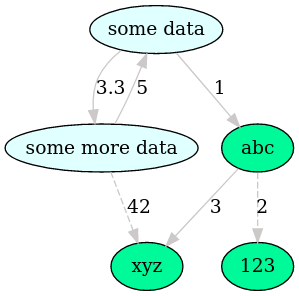
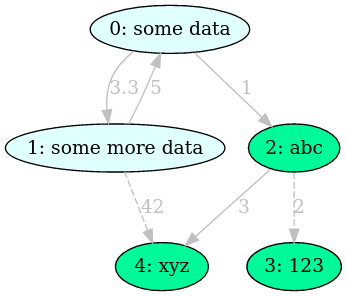
pass vertex and edge id to writers

diff --git a/src/graaflib/io/dot.h b/src/graaflib/io/dot.h
@@ -16,15 +16,17 @@ concept string_convertible = requires(T element) { std::to_string(element); };
 
 template <typename T>
   requires string_convertible<T>
-const auto default_vertex_writer{[](const T& vertex) -> std::string {
-  return fmt::format("label=\"{}\"", std::to_string(vertex));
-}};
+const auto default_vertex_writer{
+    [](vertex_id_t vertex_id, const T& vertex) -> std::string {
+      return fmt::format("label=\"{}: {}\"", vertex_id, std::to_string(vertex));
+    }};
 
 template <typename T>
   requires string_convertible<T>
-const auto default_edge_writer{[](const T& edge) -> std::string {
-  return fmt::format("label=\"{}\"", std::to_string(edge));
-}};
+const auto default_edge_writer{
+    [](const vertex_ids_t& /*edge_id*/, const T& edge) -> std::string {
+      return fmt::format("label=\"{}\"", std::to_string(edge));
+    }};
 }  // namespace detail
 
 /**
@@ -34,19 +36,20 @@ const auto default_edge_writer{[](const T& edge) -> std::string {
  * @tparam E The edge type of the graph.
  * @param graph The graph we want to serialize.
  * @param vertex_writer Function used for serializing the vertices. Should
- * accept a type V and serialize it to a string. Default implementations are
- * provided for primitive numeric types.
- * @param edge_writer Function used for serializing the edges. Should accept a
- * type E and serialize it to a string. Default implementations are provided
- * for primitive numeric types.
+ * accept a vertex_id_t and a type V and serialize it to a string. Default
+ * implementations are provided for primitive numeric types.
+ * @param edge_writer Function used for serializing the edges. Should accept an
+ * edge_id_t and a type E and serialize it to a string. Default implementations
+ * are provided for primitive numeric types.
  * @param path Path to the output dot file.
  */
 template <typename V, typename E, graph_spec S,
           typename VERTEX_WRITER_T = decltype(detail::default_vertex_writer<V>),
           typename EDGE_WRITER_T = decltype(detail::default_edge_writer<E>)>
   requires std::is_invocable_r_v<std::string, const VERTEX_WRITER_T&,
-                                 const V&> &&
-           std::is_invocable_r_v<std::string, const EDGE_WRITER_T&, const E&>
+                                 vertex_id_t, const V&> &&
+           std::is_invocable_r_v<std::string, const EDGE_WRITER_T&,
+                                 const graaf::vertex_ids_t&, const E&>
 void to_dot(
     const graph<V, E, S>& graph, const std::filesystem::path& path,
     const VERTEX_WRITER_T& vertex_writer = detail::default_vertex_writer<V>,

diff --git a/test/graaflib/io/dot_test.cpp b/test/graaflib/io/dot_test.cpp
@@ -14,13 +14,15 @@
 namespace graaf::io {
 
 namespace {
-const auto int_vertex_writer{[](int vertex) -> std::string {
-  return fmt::format("label=\"{}\"", std::to_string(vertex));
-}};
+const auto int_vertex_writer{
+    [](vertex_id_t /*vertex_id*/, int vertex) -> std::string {
+      return fmt::format("label=\"{}\"", std::to_string(vertex));
+    }};
 
-const auto int_edge_writer{[](int edge) -> std::string {
-  return fmt::format("label=\"{}\"", std::to_string(edge));
-}};
+const auto int_edge_writer{
+    [](const vertex_ids_t& /*edge_id*/, int edge) -> std::string {
+      return fmt::format("label=\"{}\"", std::to_string(edge));
+    }};
 
 template <typename T>
 const auto make_vertex_string{
@@ -204,12 +206,14 @@ TEST(DotTest, UserProvidedVertexAndEdgeClass) {
   const auto vertex_2{graph.add_vertex({20, "vertex 2"})};
   graph.add_edge(vertex_1, vertex_2, {100, "edge 1"});
 
-  const auto vertex_writer{[](const vertex_t& vertex) {
-    return fmt::format("{}, {}", vertex.numeric_data, vertex.string_data);
-  }};
-  const auto edge_writer{[](const edge_t& edge) {
-    return fmt::format("{}, {}", edge.numeric_data, edge.string_data);
-  }};
+  const auto vertex_writer{
+      [](vertex_id_t /*vertex_id*/, const vertex_t& vertex) {
+        return fmt::format("{}, {}", vertex.numeric_data, vertex.string_data);
+      }};
+  const auto edge_writer{
+      [](const vertex_ids_t& /*edge_id*/, const edge_t& edge) {
+        return fmt::format("{}, {}", edge.numeric_data, edge.string_data);
+      }};
 
   // WHEN
   to_dot(graph, path, vertex_writer, edge_writer);
@@ -238,10 +242,10 @@ TEST(DotTest, DefaultWriters) {
 
   // THEN
   const auto dot_content{read_to_string(path)};
-  ASSERT_TRUE(dot_content.find(fmt::format("{} [label=\"10\"];", vertex_1)) !=
-              std::string::npos);
-  ASSERT_TRUE(dot_content.find(fmt::format("{} [label=\"20\"];", vertex_2)) !=
-              std::string::npos);
+  ASSERT_TRUE(dot_content.find(fmt::format("{} [label=\"{}: 10\"];", vertex_1,
+                                           vertex_1)) != std::string::npos);
+  ASSERT_TRUE(dot_content.find(fmt::format("{} [label=\"{}: 20\"];", vertex_2,
+                                           vertex_2)) != std::string::npos);
   // For the float value we only check up until the first decimal place
   ASSERT_TRUE(dot_content.find(fmt::format("{} -> {} [label=\"3.3", vertex_1,
                                            vertex_2)) != std::string::npos);

diff --git a/examples/dot_serialization/main.cpp b/examples/dot_serialization/main.cpp
@@ -1,6 +1,7 @@
 #include <fmt/core.h>
 #include <graaflib/directed_graph.h>
 #include <graaflib/io/dot.h>
+#include <graaflib/types.h>
 
 #include <filesystem>
 #include <string>
@@ -49,17 +50,20 @@ auto create_graph() {
 int main() {
   const auto my_graph{create_graph()};
 
-  const auto vertex_writer{[](const my_vertex& vertex) -> std::string {
+  const auto vertex_writer{[](graaf::vertex_id_t vertex_id,
+                              const my_vertex& vertex) -> std::string {
     const auto color{vertex.number <= 25 ? "lightcyan" : "mediumspringgreen"};
-    return fmt::format("label=\"{}\", fillcolor={}, style=filled", vertex.name,
-                       color);
+    return fmt::format("label=\"{}: {}\", fillcolor={}, style=filled",
+                       vertex_id, vertex.name, color);
   }};
 
-  const auto edge_writer{[](const my_edge& edge) -> std::string {
+  const auto edge_writer{[](const graaf::vertex_ids_t& /*edge_id*/,
+                            const my_edge& edge) -> std::string {
     const auto style{edge.priority == edge_priority::HIGH ? "solid" : "dashed"};
-    return fmt::format("label=\"{}\", style={}", edge.weight, style);
+    return fmt::format("label=\"{}\", style={}, color=gray, fontcolor=gray",
+                       edge.weight, style);
   }};
 
-  const std::filesystem::path dof_file_path{"./my_graph.dot"};
+  const std::filesystem::path dof_file_path{"./dot_example.dot"};
   graaf::io::to_dot(my_graph, dof_file_path, vertex_writer, edge_writer);
 }

diff --git a/examples/dot_serialization/README.md b/examples/dot_serialization/README.md
@@ -1,4 +1,4 @@
-# Dot Serialization
+# Dot Serialization Example
 
 The `to_dot` function as defined under `graaf::io` can be used to searialize graphs to the [dot format](https://graphviz.org/doc/info/lang.html). This can be handy for debugging purposes, as well as for post-processing of your graphs in another tool which supports the format.
 
@@ -38,18 +38,20 @@ We define two lambdas to serialize these vertices and edges. Here we can use any
 **Vertex writer**
 
 ```c++
-const auto vertex_writer{[](const my_vertex& vertex) -> std::string {
-    const auto color{vertex.number <= 25 ? "lightcyan" : "mediumspringgreen"};
-    return fmt::format("label=\"{}\", fillcolor={}, style=filled", vertex.name, color);
+const auto vertex_writer{[](graaf::vertex_id_t vertex_id,
+                              const my_vertex& vertex) -> std::string {
+  const auto color{vertex.number <= 25 ? "lightcyan" : "mediumspringgreen"};
+  return fmt::format("label=\"{}: {}\", fillcolor={}, style=filled", vertex_id, vertex.name, color);
 }};
 ```
 
 **Edge writer**
 
 ```c++
-const auto edge_writer{[](const my_edge& edge) -> std::string {
-    const auto style{edge.priority == edge_priority::HIGH ? "solid" : "dashed"};
-    return fmt::format("label=\"{}\", style={}", edge.weight, style);
+const auto edge_writer{[](const graaf::vertex_ids_t& /*edge_id*/,
+                            const my_edge& edge) -> std::string {
+  const auto style{edge.priority == edge_priority::HIGH ? "solid" : "dashed"};
+  return fmt::format("label=\"{}\", style={}, color=gray, fontcolor=gray", edge.weight, style);
 }};
 ```
 
@@ -77,4 +79,6 @@ dot -Tpng ./my_graph.dot -o my_graph.png
 
  Alternatively, you can use [graphviz online](https://dreampuf.github.io/GraphvizOnline/#digraph%20G%20%7B%0A%0A%20%20subgraph%20cluster_0%20%7B%0A%20%20%20%20style%3Dfilled%3B%0A%20%20%20%20color%3Dlightgrey%3B%0A%20%20%20%20node%20%5Bstyle%3Dfilled%2Ccolor%3Dwhite%5D%3B%0A%20%20%20%20a0%20-%3E%20a1%20-%3E%20a2%20-%3E%20a3%3B%0A%20%20%20%20label%20%3D%20%22process%20%231%22%3B%0A%20%20%7D%0A%0A%20%20subgraph%20cluster_1%20%7B%0A%20%20%20%20node%20%5Bstyle%3Dfilled%5D%3B%0A%20%20%20%20b0%20-%3E%20b1%20-%3E%20b2%20-%3E%20b3%3B%0A%20%20%20%20label%20%3D%20%22process%20%232%22%3B%0A%20%20%20%20color%3Dblue%0A%20%20%7D%0A%20%20start%20-%3E%20a0%3B%0A%20%20start%20-%3E%20b0%3B%0A%20%20a1%20-%3E%20b3%3B%0A%20%20b2%20-%3E%20a3%3B%0A%20%20a3%20-%3E%20a0%3B%0A%20%20a3%20-%3E%20end%3B%0A%20%20b3%20-%3E%20end%3B%0A%0A%20%20start%20%5Bshape%3DMdiamond%5D%3B%0A%20%20end%20%5Bshape%3DMsquare%5D%3B%0A%7D) for easy visualization:
 
-![my_graph](./graph.png)
+<p align="center">
+    <img src="./graph.png">
+</p>
